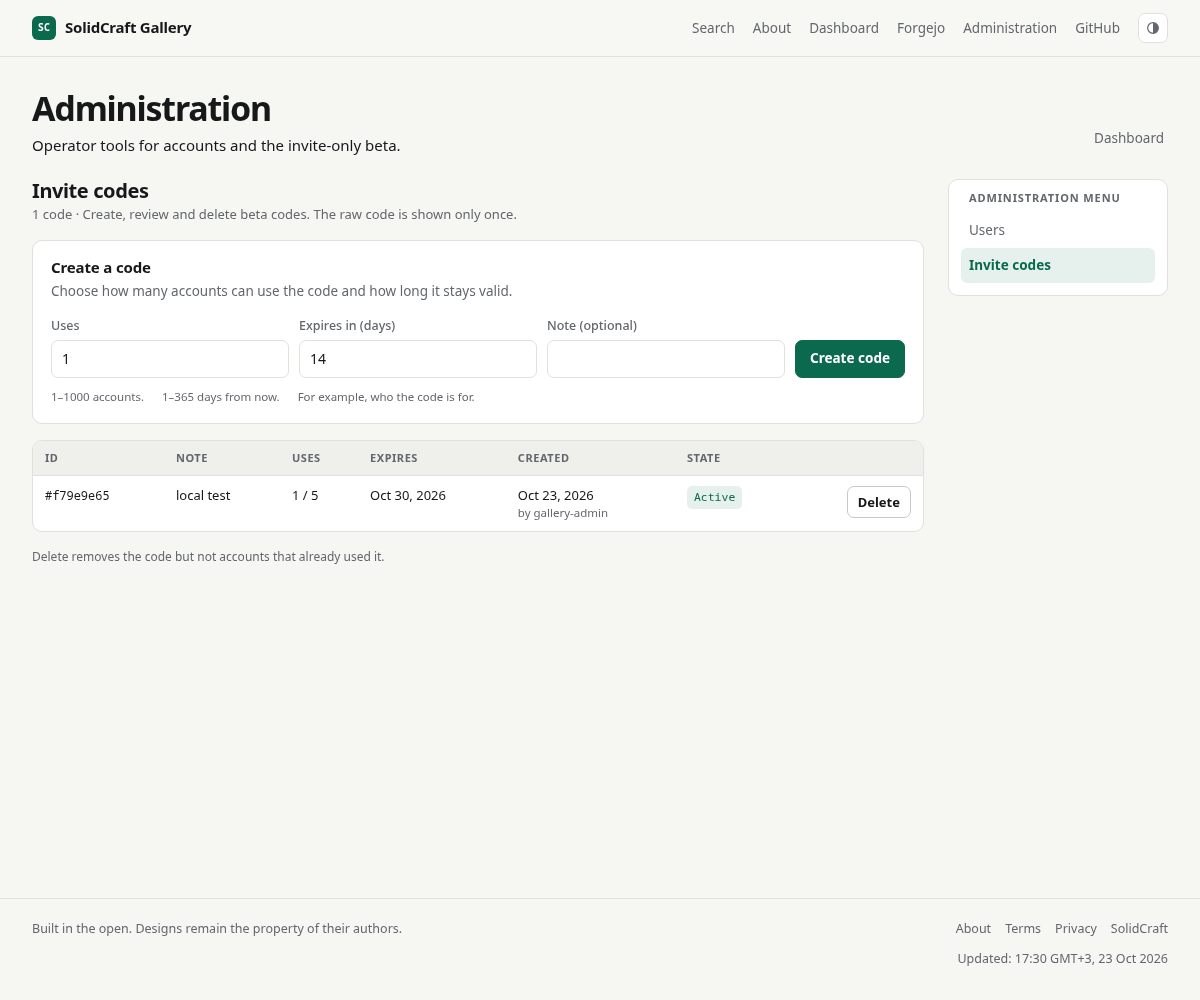
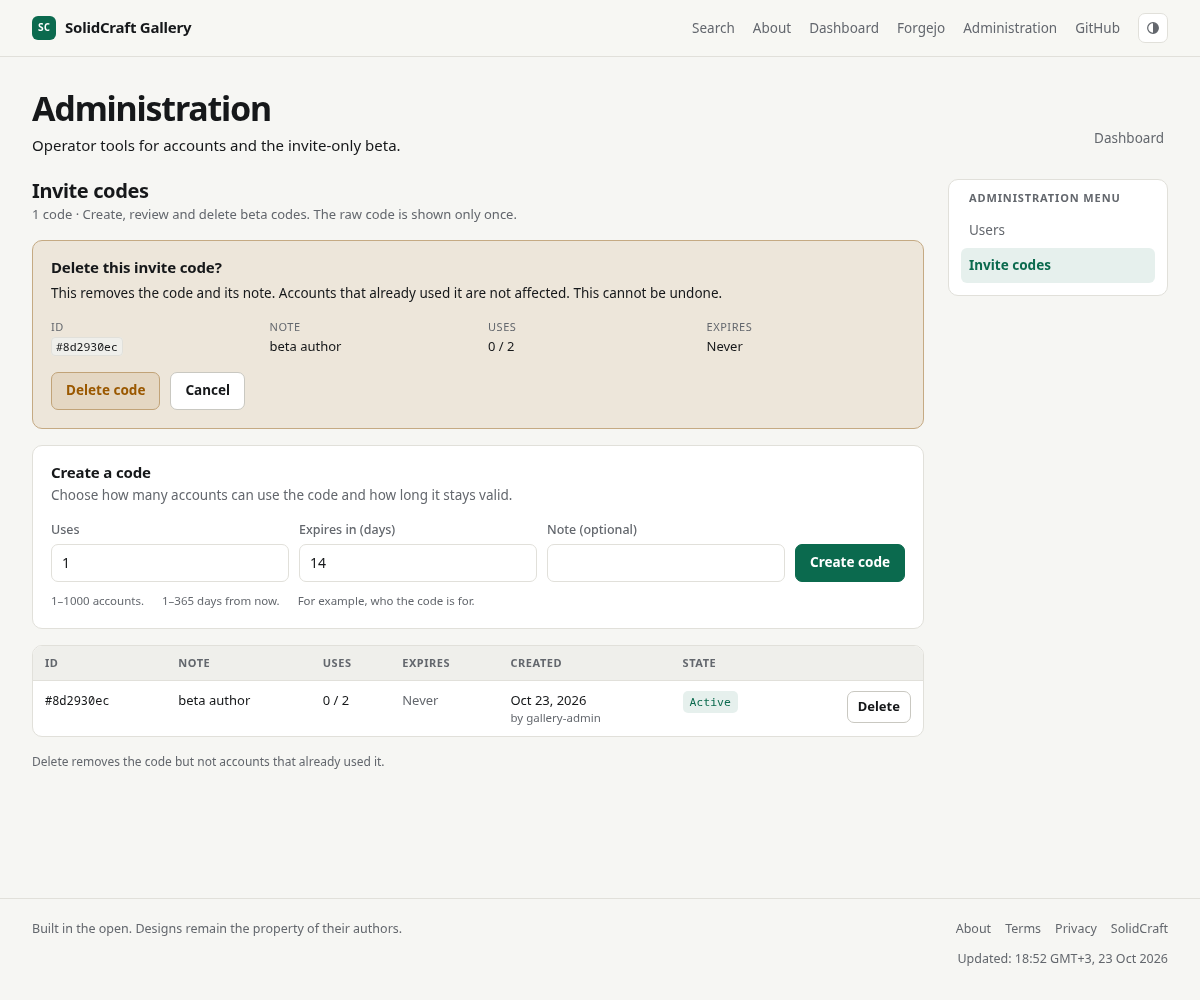
feat: confirm admin invite code deletion

diff --git a/apps/web/src/routes/admin/invites/+page.svelte b/apps/web/src/routes/admin/invites/+page.svelte
@@ -30,6 +30,10 @@
   function pageHref(target: number): string {
     return target > 1 ? `/admin/invites?page=${target}` : '/admin/invites';
   }
+
+  function confirmHref(id: string): string {
+    return `/admin/invites?page=${data.page}&confirm=${encodeURIComponent(id)}`;
+  }
 </script>
 
 <svelte:head>
@@ -45,6 +49,52 @@
   <p class="notice-ok admin-notice" role="status">{t('admin.invites.deleted')}</p>
 {:else if data.notice === 'missing'}
   <p class="notice admin-notice" role="status">{t('admin.invites.missing')}</p>
+{/if}
+
+{#if data.confirmInvite}
+  <article class="card admin-confirm" aria-labelledby="invite-confirm-title">
+    <h2 id="invite-confirm-title">{t('admin.invites.confirmTitle')}</h2>
+    <p>{t('admin.invites.confirmBody')}</p>
+    <dl class="admin-confirm-meta">
+      <div>
+        <dt>{t('admin.invites.id')}</dt>
+        <dd><code>#{data.confirmInvite.id.slice(0, 8)}</code></dd>
+      </div>
+      <div>
+        <dt>{t('admin.invites.columnNote')}</dt>
+        <dd>{data.confirmInvite.note || t('admin.invites.noNote')}</dd>
+      </div>
+      <div>
+        <dt>{t('admin.invites.uses')}</dt>
+        <dd>
+          {t('admin.invites.usesValue', {
+            used: data.confirmInvite.uses,
+            max: data.confirmInvite.maxUses,
+          })}
+        </dd>
+      </div>
+      <div>
+        <dt>{t('admin.invites.expires')}</dt>
+        <dd>
+          {#if data.confirmInvite.expiresAt}
+            <time datetime={data.confirmInvite.expiresAt.toISOString()}>
+              {formatDate(data.confirmInvite.expiresAt, { dateStyle: 'medium' })}
+            </time>
+          {:else}
+            {t('admin.invites.never')}
+          {/if}
+        </dd>
+      </div>
+    </dl>
+    <div class="form-actions">
+      <form method="POST" action="?/delete">
+        <input type="hidden" name="id" value={data.confirmInvite.id} />
+        <input type="hidden" name="page" value={data.page} />
+        <button class="button danger" type="submit">{t('admin.invites.confirmDelete')}</button>
+      </form>
+      <a class="button" href={pageHref(data.page)}>{t('admin.invites.cancel')}</a>
+    </div>
+  </article>
 {/if}
 
 {#if data.created}
@@ -144,11 +194,7 @@
               </span>
             </td>
             <td class="admin-actions">
-              <form method="POST" action="?/delete">
-                <input type="hidden" name="id" value={invite.id} />
-                <input type="hidden" name="page" value={data.page} />
-                <button class="button small" type="submit">{t('admin.invites.delete')}</button>
-              </form>
+              <a class="button small" href={confirmHref(invite.id)}>{t('admin.invites.delete')}</a>
             </td>
           </tr>
         {/each}

diff --git a/apps/web/src/app.css b/apps/web/src/app.css
@@ -517,6 +517,18 @@ a.badge:hover {
   color: var(--accent-ink);
 }
 
+.button.danger {
+  border-color: color-mix(in srgb, var(--warn) 45%, var(--border));
+  background: var(--warn-soft);
+  color: var(--warn);
+}
+
+.button.danger:hover {
+  border-color: var(--warn);
+  background: var(--warn);
+  color: var(--accent-ink);
+}
+
 .button.block {
   width: 100%;
 }
@@ -1467,6 +1479,55 @@ select:disabled {
 }
 
 .admin-actions form {
+  margin: 0;
+}
+
+.admin-confirm {
+  border-color: color-mix(in srgb, var(--warn) 40%, var(--border));
+  background: var(--warn-soft);
+}
+
+.admin-confirm h2 {
+  margin: 0;
+}
+
+.admin-confirm > p {
+  margin: 6px 0 0;
+  color: var(--text);
+  font-size: 13.5px;
+}
+
+.admin-confirm-meta {
+  display: grid;
+  grid-template-columns: repeat(auto-fit, minmax(150px, 1fr));
+  gap: 10px 20px;
+  margin: 14px 0 0;
+}
+
+.admin-confirm-meta div {
+  display: grid;
+  gap: 1px;
+  min-width: 0;
+}
+
+.admin-confirm-meta dt {
+  color: var(--muted);
+  font-size: 11px;
+  letter-spacing: 0.05em;
+  text-transform: uppercase;
+}
+
+.admin-confirm-meta dd {
+  margin: 0;
+  font-size: 13px;
+  overflow-wrap: anywhere;
+}
+
+.admin-confirm .form-actions {
+  margin-top: 16px;
+}
+
+.admin-confirm .form-actions form {
   margin: 0;
 }
 

diff --git a/packages/db/test/admin.integration.test.ts b/packages/db/test/admin.integration.test.ts
@@ -1,6 +1,6 @@
 import { afterAll, beforeAll, describe, expect, it } from 'vitest';
 import { createDatabase, type Database } from '../src/client.js';
-import { createInvite, deleteInvite, listInvitesPage } from '../src/invites.js';
+import { createInvite, deleteInvite, findInviteById, listInvitesPage } from '../src/invites.js';
 import { ensureDevUser, listUsersForAdmin, setUserAdmin, upsertOAuthUser } from '../src/users.js';
 
 const url = process.env.DATABASE_URL;
@@ -76,6 +76,15 @@ maybe('admin dashboard queries (integration)', () => {
     const page = await listInvitesPage(db, { limit: 1, offset: 0 });
     expect(page.items).toHaveLength(1);
     expect(page.total).toBeGreaterThanOrEqual(2);
+
+    expect(await findInviteById(db, one.id)).toMatchObject({
+      id: one.id,
+      note: `${prefix}-one`,
+      maxUses: 3,
+      uses: 0,
+    });
+    expect(await findInviteById(db, two.id)).not.toBeNull();
+    expect(await findInviteById(db, '00000000-0000-4000-8000-000000000000')).toBeNull();
 
     const deleted = await deleteInvite(db, one.id);
     expect(deleted).toEqual({ id: one.id, note: `${prefix}-one`, maxUses: 3, uses: 0 });

diff --git a/apps/web/src/routes/admin/invites/+page.server.ts b/apps/web/src/routes/admin/invites/+page.server.ts
@@ -1,5 +1,5 @@
 import { fail, redirect } from '@sveltejs/kit';
-import { createInvite, deleteInvite, getDatabase, listInvitesPage } from '@gallery/db';
+import { createInvite, deleteInvite, findInviteById, getDatabase, listInvitesPage } from '@gallery/db';
 import {
   INVITES_PAGE_SIZE,
   inviteExpiry,
@@ -36,10 +36,12 @@ export async function load(event) {
   }
 
   const now = new Date();
+  const confirmParam = event.url.searchParams.get('confirm') ?? '';
+  const confirmInvite = isUuid(confirmParam) ? await findInviteById(db, confirmParam) : null;
   const notice =
     event.url.searchParams.get('deleted') === '1'
       ? 'deleted'
-      : event.url.searchParams.get('missing') === '1'
+      : event.url.searchParams.get('missing') === '1' || (confirmParam && !confirmInvite)
         ? 'missing'
         : null;
 
@@ -50,6 +52,7 @@ export async function load(event) {
     pages,
     notice,
     created: flash ? { code: flash.code, url: registrationUrl(flash.code) } : null,
+    confirmInvite: confirmInvite ? { ...confirmInvite, state: inviteState(confirmInvite, now) } : null,
   };
 }
 

diff --git a/apps/web/src/lib/i18n/bg.ts b/apps/web/src/lib/i18n/bg.ts
@@ -217,6 +217,11 @@ export const bg: Dictionary = {
   'admin.invites.never': 'Никога',
   'admin.invites.delete': 'Изтрий',
   'admin.invites.deleteHint': 'Изтриването премахва кода, но не и акаунтите, които вече са го използвали.',
+  'admin.invites.confirmTitle': 'Да изтрия ли този код за покана?',
+  'admin.invites.confirmBody':
+    'Това премахва кода и бележката му. Акаунтите, които вече са го използвали, не се засягат. Действието е необратимо.',
+  'admin.invites.confirmDelete': 'Изтрий кода',
+  'admin.invites.cancel': 'Отказ',
   'admin.invites.empty': 'Още няма кодове за покани. Създайте един по-горе.',
   'admin.invites.deleted': 'Кодът за покана е изтрит.',
   'admin.invites.missing': 'Този код за покана вече не съществува.',

diff --git a/apps/web/src/lib/i18n/de.ts b/apps/web/src/lib/i18n/de.ts
@@ -222,6 +222,11 @@ export const de: Dictionary = {
   'admin.invites.never': 'Nie',
   'admin.invites.delete': 'Löschen',
   'admin.invites.deleteHint': 'Löschen entfernt den Code, aber keine Konten, die ihn bereits genutzt haben.',
+  'admin.invites.confirmTitle': 'Diesen Einladungscode löschen?',
+  'admin.invites.confirmBody':
+    'Dadurch werden der Code und seine Notiz entfernt. Konten, die ihn bereits genutzt haben, bleiben bestehen. Das lässt sich nicht rückgängig machen.',
+  'admin.invites.confirmDelete': 'Code löschen',
+  'admin.invites.cancel': 'Abbrechen',
   'admin.invites.empty': 'Noch keine Einladungscodes. Legen Sie oben einen an.',
   'admin.invites.deleted': 'Einladungscode gelöscht.',
   'admin.invites.missing': 'Dieser Einladungscode existiert nicht mehr.',

diff --git a/apps/web/src/lib/i18n/fr.ts b/apps/web/src/lib/i18n/fr.ts
@@ -220,6 +220,11 @@ export const fr: Dictionary = {
   'admin.invites.never': 'Jamais',
   'admin.invites.delete': 'Supprimer',
   'admin.invites.deleteHint': 'La suppression retire le code, mais pas les comptes qui l’ont déjà utilisé.',
+  'admin.invites.confirmTitle': 'Supprimer ce code d’invitation ?',
+  'admin.invites.confirmBody':
+    'Le code et sa note seront supprimés. Les comptes qui l’ont déjà utilisé ne sont pas affectés. Cette action est irréversible.',
+  'admin.invites.confirmDelete': 'Supprimer le code',
+  'admin.invites.cancel': 'Annuler',
   'admin.invites.empty': 'Aucun code d’invitation. Créez-en un ci-dessus.',
   'admin.invites.deleted': 'Code d’invitation supprimé.',
   'admin.invites.missing': 'Ce code d’invitation n’existe plus.',

diff --git a/packages/db/src/invites.ts b/packages/db/src/invites.ts
@@ -84,6 +84,21 @@ export async function listInvites(db: Database): Promise<Invite[]> {
   return (await listInvitesPage(db, { limit: 200, offset: 0 })).items;
 }
 
+/** One code for the admin confirmation step; callers validate the UUID first. */
+export async function findInviteById(db: Database, id: string): Promise<Invite | null> {
+  const rows = await db<Invite[]>`
+    select
+      i.id, i.note, i.max_uses as "maxUses", i.uses,
+      i.expires_at as "expiresAt", i.revoked_at as "revokedAt",
+      i.created_at as "createdAt", u.username::text as "createdBy"
+    from invites i
+    join users u on u.id = i.created_by
+    where i.id = ${id}
+    limit 1
+  `;
+  return rows[0] ?? null;
+}
+
 export interface DeletedInvite {
   id: string;
   note: string;

diff --git a/apps/web/src/lib/i18n/es.ts b/apps/web/src/lib/i18n/es.ts
@@ -221,6 +221,11 @@ export const es: Dictionary = {
   'admin.invites.never': 'Nunca',
   'admin.invites.delete': 'Eliminar',
   'admin.invites.deleteHint': 'Eliminar quita el código, pero no las cuentas que ya lo usaron.',
+  'admin.invites.confirmTitle': '¿Eliminar este código de invitación?',
+  'admin.invites.confirmBody':
+    'Esto quita el código y su nota. Las cuentas que ya lo usaron no se ven afectadas. No se puede deshacer.',
+  'admin.invites.confirmDelete': 'Eliminar código',
+  'admin.invites.cancel': 'Cancelar',
   'admin.invites.empty': 'Todavía no hay códigos de invitación. Crea uno arriba.',
   'admin.invites.deleted': 'Código de invitación eliminado.',
   'admin.invites.missing': 'Ese código de invitación ya no existe.',

diff --git a/apps/web/src/lib/i18n/en.ts b/apps/web/src/lib/i18n/en.ts
@@ -218,6 +218,11 @@ export const en = {
   'admin.invites.never': 'Never',
   'admin.invites.delete': 'Delete',
   'admin.invites.deleteHint': 'Delete removes the code but not accounts that already used it.',
+  'admin.invites.confirmTitle': 'Delete this invite code?',
+  'admin.invites.confirmBody':
+    'This removes the code and its note. Accounts that already used it are not affected. This cannot be undone.',
+  'admin.invites.confirmDelete': 'Delete code',
+  'admin.invites.cancel': 'Cancel',
   'admin.invites.empty': 'No invite codes yet. Create one above.',
   'admin.invites.deleted': 'Invite code deleted.',
   'admin.invites.missing': 'That invite code no longer exists.',

diff --git a/docs/00-decisions.md b/docs/00-decisions.md
@@ -336,10 +336,11 @@ codes with deletion, and one-time code creation.
 **Decision.** Add an admin-only `/admin` area linked from the top navigation after Forgejo.
 `/admin/users` lists accounts with role, sign-in providers, project count, join time, last-seen time
 and suspension. `/admin/invites` lists codes with note, uses, expiry, creator and state; it creates
-codes with uses and expiry days and hard-deletes rows. A signed-in non-admin gets `404`; the subtree
-is `no-store`/`noindex`, and form posts are origin-checked. The raw code is returned only in the
-create POST response and is never stored or listed again. This supersedes D14's "Invites stay
-CLI-only" clause; the CLI remains supported and keeps revoke semantics.
+codes with uses and expiry days and hard-deletes rows after a confirmation step. A signed-in
+non-admin gets `404`; the subtree is `no-store`/`noindex`, and form posts are origin-checked. The raw
+code is returned only in the create POST response and is never stored or listed again. This
+supersedes D14's "Invites stay CLI-only" clause; the CLI remains supported and keeps revoke
+semantics.
 
 **Consequences.** Operators can run the beta without shell access. Raw codes are not recoverable from
 the database or the list. Hard delete removes the invite row and its note; accounts that accepted it

diff --git a/docs/10-frontend.md b/docs/10-frontend.md
@@ -159,7 +159,8 @@ Implemented:
 - `/admin/users`: paginated accounts with username, display name, email, role, sign-in providers,
   project count, joined, last seen and suspension.
 - `/admin/invites`: paginated codes with note, uses, expiry, creator and state. Operators can create
-  a code with uses and expiry days (the raw code is shown once) and delete a code.
+  a code with uses and expiry days (the raw code is shown once) and delete a code after a
+  confirmation step.
 
 Planned:
 
